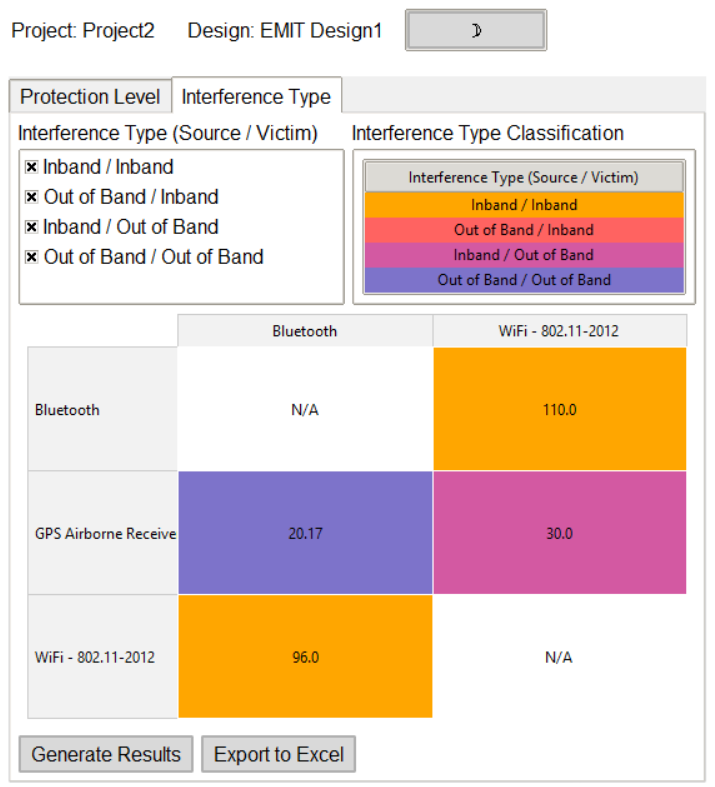
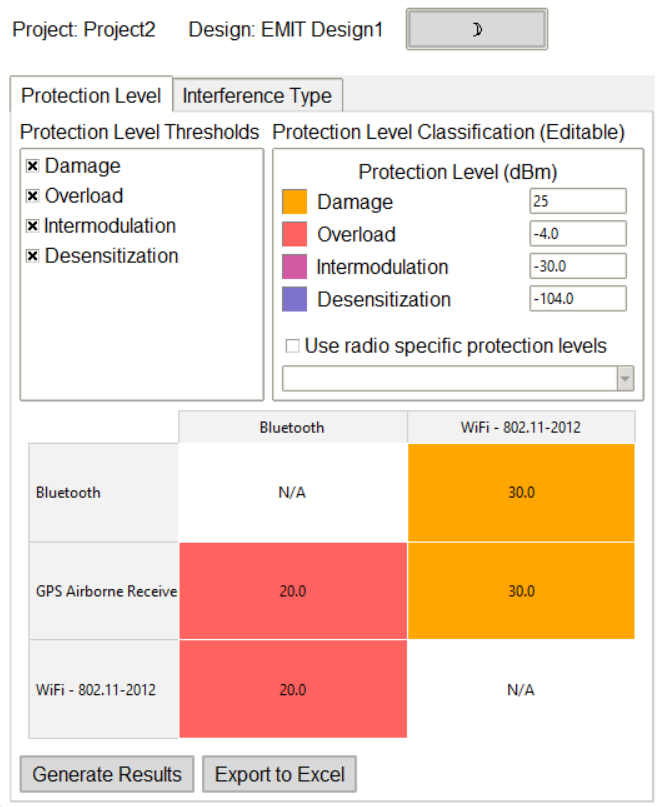
changed legend, updated ui photo
With treeview widget as legend, background color was showing locally but not when run through extension manager. Changed to canvas which shows the colors locally and as extension

diff --git a/src/ansys/aedt/core/extensions/emit/interference_classification.py b/src/ansys/aedt/core/extensions/emit/interference_classification.py
@@ -128,28 +128,43 @@ class InterferenceClassificationExtension(ExtensionEMITCommon):
         )
         prot_right.pack(side=tkinter.LEFT, fill=tkinter.BOTH, expand=True)
 
-        # Legend table (static headings/values)
-        tv_prot = ttk.Treeview(prot_right, columns=("label", "value"), show="headings", height=4)
-        tv_prot.heading("label", text="")
-        tv_prot.heading("value", text="Protection Level (dBm)")
-        tv_prot.column("label", width=160, anchor=tkinter.W)
-        tv_prot.column("value", width=160, anchor=tkinter.CENTER)
-        tv_prot.pack(fill=tkinter.X, padx=6, pady=6)
-        # Populate legend rows and tag with background colors
+        # Canvas-based legend (more reliable color rendering than ttk.Treeview)
+        legend_frame = ttk.Frame(prot_right, style="PyAEDT.TFrame")
+        legend_frame.pack(fill=tkinter.X, padx=6, pady=6)
+
+        # Header
+        header_frame = ttk.Frame(legend_frame, style="PyAEDT.TFrame")
+        header_frame.pack(fill=tkinter.X)
+        ttk.Label(header_frame, text="Protection Level (dBm)", style="PyAEDT.TLabel").pack()
+
+        # Legend rows with Canvas for colors
         legend_rows = [
             ("Damage", "30.0", "#FFA600"),
             ("Overload", "-4.0", "#FF6361"),
             ("Intermodulation", "-30.0", "#D359A2"),
             ("Desensitization", "-104.0", "#7D73CA"),
         ]
-        for label, value, color in legend_rows:
-            iid = tv_prot.insert("", tkinter.END, values=(label, value))
-            tv_prot.tag_configure(label, background=color)
-            tv_prot.item(iid, tags=(label,))
-        self._widgets["tv_prot_legend"] = tv_prot
 
-        # Enable inline editing of the value column
-        tv_prot.bind("<Double-1>", self._edit_protection_legend_value)
+        prot_legend_entries = {}
+        for label, value, color in legend_rows:
+            row_frame = ttk.Frame(legend_frame, style="PyAEDT.TFrame")
+            row_frame.pack(fill=tkinter.X, pady=2)
+
+            # Color indicator (Canvas rectangle)
+            canvas = tkinter.Canvas(row_frame, width=20, height=20, highlightthickness=0)
+            canvas.pack(side=tkinter.LEFT, padx=(0, 6))
+            canvas.create_rectangle(0, 0, 20, 20, fill=color, outline="gray")
+
+            # Label
+            ttk.Label(row_frame, text=label, width=18, style="PyAEDT.TLabel").pack(side=tkinter.LEFT)
+
+            # Editable value entry
+            entry = ttk.Entry(row_frame, width=12, style="PyAEDT.TEntry")
+            entry.insert(0, value)
+            entry.pack(side=tkinter.LEFT, padx=6)
+            prot_legend_entries[label] = entry
+
+        self._widgets["prot_legend_entries"] = prot_legend_entries
 
         # Radio-specific protection levels controls
         self._radio_specific_var = tkinter.BooleanVar(master=root, value=False)
@@ -212,10 +227,10 @@ class InterferenceClassificationExtension(ExtensionEMITCommon):
 
         int_right = ttk.LabelFrame(int_top, text="Interference Type Classification", style="PyAEDT.TLabelframe")
         int_right.pack(side=tkinter.LEFT, fill=tkinter.BOTH, expand=True)
-        tv_int = ttk.Treeview(int_right, columns=("itype",), show="headings", height=4)
-        tv_int.heading("itype", text="Interference Type (Source / Victim)")
-        tv_int.column("itype", width=260, anchor=tkinter.CENTER)
-        tv_int.pack(fill=tkinter.X, padx=6, pady=6)
+
+        # Canvas-based legend (more reliable color rendering than ttk.Treeview)
+        int_legend_frame = ttk.Frame(int_right, style="PyAEDT.TFrame")
+        int_legend_frame.pack(fill=tkinter.X, padx=6, pady=6)
 
         # Color-coded legend rows
         irows = [
@@ -224,19 +239,18 @@ class InterferenceClassificationExtension(ExtensionEMITCommon):
             ("Inband / Out of Band", "#D359A2"),
             ("Out of Band / Out of Band", "#7D73CA"),
         ]
+
         for text, color in irows:
-            iid = tv_int.insert("", tkinter.END, values=(text,))
-            tv_int.tag_configure(text, background=color)
-            tv_int.item(iid, tags=(text,))
+            row_frame = ttk.Frame(int_legend_frame, style="PyAEDT.TFrame")
+            row_frame.pack(fill=tkinter.X, pady=2)
 
-        # Auto-resize legend single column
-        def _resize_int_legend(_event=None):
-            total = max(tv_int.winfo_width() - 4, 190)
-            tv_int.column("itype", width=total)
+            # Color indicator (Canvas rectangle)
+            canvas = tkinter.Canvas(row_frame, width=20, height=20, highlightthickness=0)
+            canvas.pack(side=tkinter.LEFT, padx=(0, 6))
+            canvas.create_rectangle(0, 0, 20, 20, fill=color, outline="gray")
 
-        tv_int.bind("<Configure>", _resize_int_legend)
-        _resize_int_legend()
-        self._widgets["tv_int_legend"] = tv_int
+            # Label
+            ttk.Label(row_frame, text=text, style="PyAEDT.TLabel").pack(side=tkinter.LEFT)
 
         # Interference Type Results Matrix and Buttons
         int_matrix = ttk.Frame(int_tab, style="PyAEDT.TFrame")
@@ -275,8 +289,6 @@ class InterferenceClassificationExtension(ExtensionEMITCommon):
     def _on_run_protection(self):
         """Generate protection level classification results."""
         try:
-            # Commit any pending edit in the legend before reading values
-            self._commit_protection_legend_editor()
             filters = [k for k, v in self._filters_prot.items() if bool(v.get())]
             tx_radios, rx_radios, colors, values = self._compute_protection(filters)
             self._matrix = _MatrixData(tx_radios, rx_radios, colors, values)
@@ -284,79 +296,20 @@ class InterferenceClassificationExtension(ExtensionEMITCommon):
         except Exception as e:
             messagebox.showerror("Error", f"Failed to generate protection results: {e}")
 
-    # ---------------- Legend edit helpers -----------------
-    def _edit_protection_legend_value(self, event):
-        """Enable inline editing of protection level legend values."""
-        tv = self._widgets.get("tv_prot_legend")
-        if not tv:
-            return
-        region = tv.identify("region", event.x, event.y)
-        if region != "cell":
-            return
-        column = tv.identify_column(event.x)
-        # Only allow edits on second column (value)
-        if column != "#2":
-            return
-        row_iid = tv.identify_row(event.y)
-        if not row_iid:
-            return
-        # If an editor is already open, commit it first
-        self._commit_protection_legend_editor()
-
-        x, y, w, h = tv.bbox(row_iid, column)
-        current_val = tv.set(row_iid, column)
-        editor = ttk.Entry(tv)
-        editor.insert(0, current_val)
-        editor.place(x=x, y=y, width=w, height=h)
-
-        def commit(_event=None):
-            val_str = editor.get().strip()
-            try:
-                # validate numeric
-                float(val_str)
-            except Exception:
-                messagebox.showerror("Invalid value", "Please enter a numeric value (dBm).")
-                editor.destroy()
-                self._widgets["tv_prot_editor"] = None
-                return
-            tv.set(row_iid, column, val_str)
-            # Persist into protection levels for current radio or Global
-            values = self._get_legend_values()
-            idx = self._radio_dropdown.get() or "Global"
-            self._protection_levels[idx] = values
-            editor.destroy()
-            self._widgets["tv_prot_editor"] = None
-
-        editor.bind("<Return>", commit)
-        editor.bind("<FocusOut>", commit)
-        editor.focus_set()
-        self._widgets["tv_prot_editor"] = editor
-
-    def _commit_protection_legend_editor(self):
-        """Commit any active inline editor for protection legend values."""
-        editor = self._widgets.get("tv_prot_editor")
-        if editor and editor.winfo_exists():
-            # Trigger focus-out to commit
-            try:
-                editor.event_generate("<FocusOut>")
-            except Exception:
-                try:
-                    editor.destroy()
-                finally:
-                    self._widgets["tv_prot_editor"] = None
-
     # ---------------- Legend/radio helpers -----------------
     def _get_legend_values(self):
-        """Retrieve protection level values from the legend table."""
+        """Retrieve protection level values from the legend entry widgets."""
         vals = []
-        tv = self._widgets.get("tv_prot_legend")
-        if not tv:
-            return vals
-        for iid in tv.get_children(""):
-            row = tv.item(iid, "values")
-            try:
-                vals.append(float(row[1]))
-            except Exception:
+        entries = self._widgets.get("prot_legend_entries", {})
+        # Order: Damage, Overload, Intermodulation, Desensitization
+        for label in ["Damage", "Overload", "Intermodulation", "Desensitization"]:
+            entry = entries.get(label)
+            if entry:
+                try:
+                    vals.append(float(entry.get()))
+                except Exception:
+                    vals.append(0.0)
+            else:
                 vals.append(0.0)
         return vals
 
@@ -375,31 +328,43 @@ class InterferenceClassificationExtension(ExtensionEMITCommon):
             self._radio_dropdown.configure(state="readonly", values=rx_names)
             if rx_names:
                 self._radio_dropdown.set(rx_names[0])
+                self._current_radio = rx_names[0]  # Track initial radio
             self._global_protection_level = False
         else:
             values = self._get_legend_values()
             self._protection_levels = {"Global": values}
             self._radio_dropdown.configure(state="disabled", values=[])
             self._radio_dropdown.set("")
+            self._current_radio = None  # Clear tracking when back to global
             self._global_protection_level = True
 
     def _on_radio_dropdown_changed(self, _evt=None):
-        """Update legend values when selected radio changes."""
+        """Update legend entry values when selected radio changes."""
+        # First, save the current Entry values to the previously selected radio
+        prev_radio = getattr(self, "_current_radio", None)
+        if prev_radio and prev_radio in self._protection_levels:
+            current_values = self._get_legend_values()
+            self._protection_levels[prev_radio] = current_values
+
+        # Now load the newly selected radio's values
         cur = self._radio_dropdown.get()
         if not cur:
             return
         if cur not in self._protection_levels:
             return
+
+        # Remember this as the current radio for next switch
+        self._current_radio = cur
+
         values = self._protection_levels[cur]
-        tv = self._widgets.get("tv_prot_legend")
-        if not tv:
-            return
-        i = 0
-        for iid in tv.get_children(""):
-            row_vals = list(tv.item(iid, "values"))
-            row_vals[1] = str(values[i])
-            tv.item(iid, values=tuple(row_vals))
-            i += 1
+        entries = self._widgets.get("prot_legend_entries", {})
+        # Order: Damage, Overload, Intermodulation, Desensitization
+        labels = ["Damage", "Overload", "Intermodulation", "Desensitization"]
+        for i, label in enumerate(labels):
+            entry = entries.get(label)
+            if entry and i < len(values):
+                entry.delete(0, tkinter.END)
+                entry.insert(0, str(values[i]))
 
     def _on_export_excel(self):
         """Export the current results matrix to an Excel file."""
@@ -489,8 +454,19 @@ class InterferenceClassificationExtension(ExtensionEMITCommon):
         if len(radios) < 2:
             raise RuntimeError("At least two radios are required.")
 
-        # Using global protection levels from legend
-        global_levels = self._protection_levels.get("Global", self._get_legend_values())
+        # Always get current values from Entry widgets to capture any edits
+        current_values = self._get_legend_values()
+
+        # Update stored values
+        if self._global_protection_level:
+            self._protection_levels["Global"] = current_values
+            global_levels = current_values
+        else:
+            # Update the currently selected radio's values
+            cur_radio = self._radio_dropdown.get()
+            if cur_radio:
+                self._protection_levels[cur_radio] = current_values
+            global_levels = self._protection_levels.get("Global", current_values)
 
         rev = app.results.analyze()
         domain = app.results.interaction_domain()
